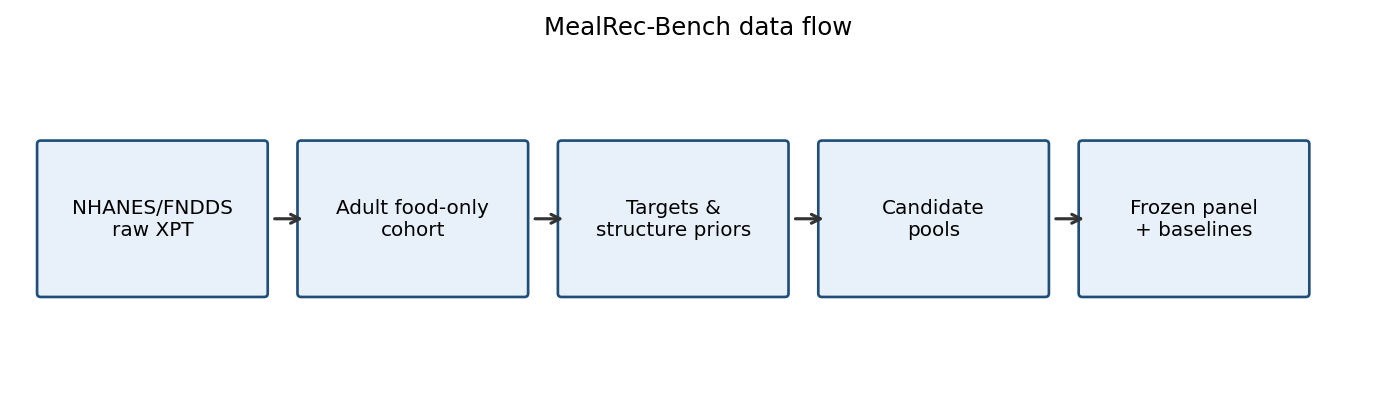
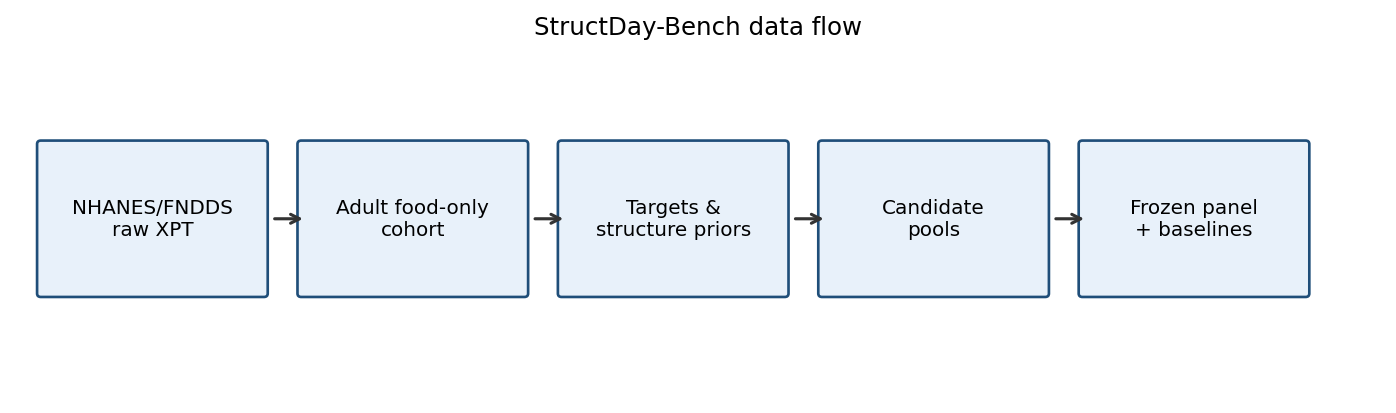
Rename benchmark to StructDay-Bench.
Drop MealRec branding so the Access/preprint artifact has a
structure-and-multi-day name distinct from NutriOpt-Bench.

Changed region(s): [[0.3696, 0.0291, 0.616, 0.0872]]

diff --git a/manuscript/main.tex b/manuscript/main.tex
@@ -11,7 +11,7 @@
 \hyphenation{op-tical net-works semi-conduc-tor}
 
 \begin{document}
-\title{MealRec-Bench: A Protocol and Comparative Study for Structure-Conditioned Multi-Day Dietary Optimization from NHANES}
+\title{StructDay-Bench: A Protocol and Comparative Study for Structure-Conditioned Multi-Day Dietary Optimization from NHANES}
 
 \author{Lei~Zhao%
 \thanks{L.~Zhao and J.~Lu contributed equally.}%
@@ -22,7 +22,7 @@
 \thanks{F.~Huang is with Dalian Scientific Test and Control Technology Institute, Dalian, China.}}
 
 \markboth{IEEE Access (preprint draft)}%
-{Zhao \MakeLowercase{\textit{et al.}}: MealRec-Bench}
+{Zhao \MakeLowercase{\textit{et al.}}: StructDay-Bench}
 
 \maketitle
 
@@ -48,7 +48,7 @@ IEEE Access regularly publishes dataset- and protocol-centric contributions that
 We deliberately exclude method papers that introduce new search operators from the claim of this manuscript; those belong in separate venues.
 
 \paragraph{Relation to NutriOpt-Bench / RCFA.}
-A separate experimental survey (NutriOpt-Bench) studies \emph{range-constrained food assembly} under equal evaluation budgets, with Feasible Hit Rate, Friedman ranks, and Kendall~$\tau$ across scale/sparsity/dimension axes. That work targets evolutionary-computation methodology on single-assembly interval boxes. MealRec-Bench is complementary and non-substitutable: it freezes multi-day sequential delivery under wall-clock caps, demographic meal$\times$category envelopes, food-identity nonrepetition across days, and delivery/all-band outcomes. We do not reuse RCFA FHR protocols, recipe-ceiling regimes, or cross-regime $\tau$ claims here.
+A separate experimental survey (NutriOpt-Bench) studies \emph{range-constrained food assembly} under equal evaluation budgets, with Feasible Hit Rate, Friedman ranks, and Kendall~$\tau$ across scale/sparsity/dimension axes. That work targets evolutionary-computation methodology on single-assembly interval boxes. StructDay-Bench is complementary and non-substitutable: it freezes multi-day sequential delivery under wall-clock caps, demographic meal$\times$category envelopes, food-identity nonrepetition across days, and delivery/all-band outcomes. We do not reuse RCFA FHR protocols, recipe-ceiling regimes, or cross-regime $\tau$ claims here.
 
 \section{Related Work}
 Mathematical programming reviews summarize nutrient-only and multi-criteria diet models~\cite{dooren2018,gazan2018}. Menu systems add operational constraints~\cite{seljak2009,benvenuti2020,sahin2024}. Evolutionary multi-objective algorithms---NSGA-II~\cite{deb2002}, NSGA-III~\cite{nsga3}, RVEA~\cite{rvea}, SMS-EMOA~\cite{sms2007}, AGE-MOEA variants~\cite{age1,age2}, and aging-based SMS adaptations~\cite{aging2025}---provide complementary selection pressures. Fair metaheuristic comparison itself is an active topic~\cite{metaheuristics2021}. Benchmark-style Access papers emphasize shared data, metrics, and baselines~\cite{dales2021,cduie2023,nasbenchnlp2022}. Our setting differs through fixed-portion binary genotypes, sequential food-ID bans, and wall-clock multi-day delivery rather than offline hypervolume on synthetic fronts or equal-evaluation FHR surveys of single-day interval assembly.
@@ -146,7 +146,7 @@ Difficulty-stratified patterns (Aging-SMS) show near-ceiling easy/hard day deliv
 A shared protocol changes the interpretation of ``better.'' Day count alone favours generation-fraction RVEA; envelope conformity and wall-clock APD reverse that conclusion relative to Aging-SMS. Benchmark users should therefore publish both delivered and all-band totals, declare APD schedules, and retain failures. Limitations include: no human palatability ratings; no external diet-quality index as a hard gate; structure$\times$target sampling rather than respondent-level hold-out; and adapters that are batch implementations of literature methods, not byte-identical reference codes. Clinical suitability is not claimed~\cite{cdcEthics}.
 
 \section{Conclusion}
-MealRec-Bench documents an NHANES-to-instance pipeline, freezes a confirmatory multi-day protocol, and compares existing algorithms under identical pools and budgets. Aging-SMS is a strong wall-clock baseline on the released panel; fair RVEA accounting matters. We release the manuscript, protocol JSON, and aggregate tables for preprint posting, with IEEE Access submission planned after official template packaging and public code linkage.
+StructDay-Bench documents an NHANES-to-instance pipeline, freezes a confirmatory multi-day protocol, and compares existing algorithms under identical pools and budgets. Aging-SMS is a strong wall-clock baseline on the released panel; fair RVEA accounting matters. We release the manuscript, protocol JSON, and aggregate tables for preprint posting, with IEEE Access submission planned after official template packaging and public code linkage.
 
 \section*{Data and Code Availability}
 NHANES/FNDDS raw files must be obtained from NCHS/USDA. Protocol JSON, panel selection, and aggregate CSVs accompany this repository. Runtime extraction for public release is staged separately. Generated aggregates: CC~BY~4.0.

diff --git a/README.md b/README.md
@@ -1,4 +1,4 @@
-# MealRec-Bench: NHANES-derived multi-day dietary optimization benchmark
+# StructDay-Bench: NHANES-derived multi-day dietary optimization benchmark
 
 Public benchmark artifact for **structure-conditioned, fixed-portion, multi-day dietary optimization** under a wall-clock protocol.
 
@@ -6,7 +6,7 @@ Public benchmark artifact for **structure-conditioned, fixed-portion, multi-day 
 
 ## Not the TEVC RCFA survey
 
-Do **not** confuse this repo with [NutriOpt-Bench / nutri-range-opt-survey](https://github.com/tyrone1979/nutri-range-opt-survey/) (IEEE TEVC experimental survey on range-constrained food assembly). That project uses equal evaluation budgets and reports FHR / Friedman / Kendall τ on single-assembly interval boxes. MealRec-Bench instead freezes **multi-day wall-clock** delivery, structure envelopes, and delivered/all-band metrics. Claims and protocols are kept disjoint on purpose.
+Do **not** confuse this repo with [NutriOpt-Bench / nutri-range-opt-survey](https://github.com/tyrone1979/nutri-range-opt-survey/) (IEEE TEVC experimental survey on range-constrained food assembly). That project uses equal evaluation budgets and reports FHR / Friedman / Kendall τ on single-assembly interval boxes. StructDay-Bench instead freezes **multi-day wall-clock** delivery, structure envelopes, and delivered/all-band metrics. Claims and protocols are kept disjoint on purpose.
 
 ## What this repository contains
 

diff --git a/docs/DATA_PIPELINE.md b/docs/DATA_PIPELINE.md
@@ -83,4 +83,4 @@ Protocol id: `external_main_v1` / confirmatory panel freeze.
 
 ## Disjoint from NutriOpt-Bench (TEVC)
 
-NutriOpt-Bench/RCFA uses equal evaluation budgets and FHR metrics for single-assembly interval boxes. This pipeline feeds multi-day wall-clock MealRec-Bench instances instead.
+NutriOpt-Bench/RCFA uses equal evaluation budgets and FHR metrics for single-assembly interval boxes. This pipeline feeds multi-day wall-clock StructDay-Bench instances instead.
